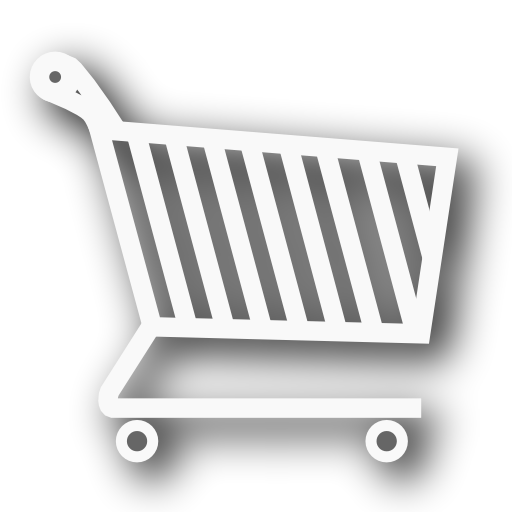
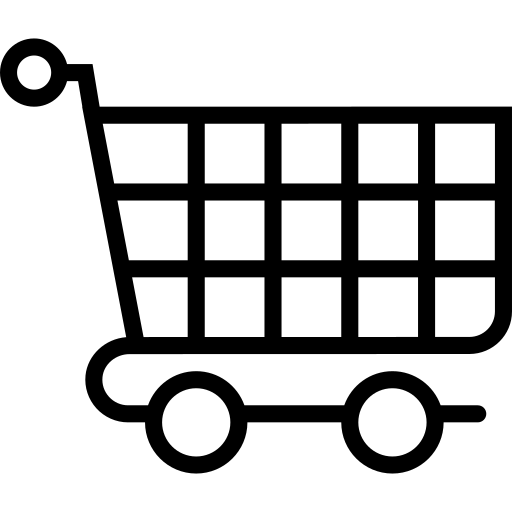
carrito actualizado

diff --git a/js/script.js b/js/script.js
@@ -22,13 +22,16 @@ renderizarmangas(mangas)
 let carrito = document.getElementById("carrito")
 let buscador = document.getElementById("searchByText")
 buscador.addEventListener("input", renderizarMangasFiltradosBuscador)
-
+let contenedorCarritoTotal = document.getElementById("contenedorCarritoTotal")
 let filtroAccion = document.getElementById("Accion")
 let filtroDeportes = document.getElementById("Deportes")
 let filtroSliceOfLife = document.getElementById("Slice of Life")
 let todos = document.getElementById("Todos")
 let inicio = document.getElementById("Inicio")
-
+let cartNav = document.getElementById("cart-nav")
+let botonCarrito = document.getElementById("cart-button")
+let modal = document.getElementById("myModal");
+botonCarrito.addEventListener("click", esconder)
 filtroAccion.addEventListener("click", renderizarmangasFiltrados)
 filtroDeportes.addEventListener("click", renderizarmangasFiltrados)
 filtroSliceOfLife.addEventListener("click", renderizarmangasFiltrados)
@@ -78,11 +81,12 @@ function agregarAlCarrito(e) {
         carro[chequeoManga].precioTotalCantidad = carro[chequeoManga].cantidad * carro[chequeoManga].precio
     }
     else {
-        carro.push({ id: mangaBuscado.id, nombre: mangaBuscado.nombre, categoria: mangaBuscado.categoria, precio: mangaBuscado.precio, marca: mangaBuscado.marca, cantidad: 1, precioTotalCantidad: mangaBuscado.precio })
+        carro.push({ id: mangaBuscado.id, nombre: mangaBuscado.nombre, categoria: mangaBuscado.categoria, precio: mangaBuscado.precio, marca: mangaBuscado.marca, cantidad: 1, precioTotalCantidad: mangaBuscado.precio, img: mangaBuscado.rutaImagen})
     }
     totalFinal = carro.reduce((a, b) => a + b.precioTotalCantidad, 0)
     unidades = carro.reduce((a, b) => a + b.cantidad, 0)
     actualizarCarrito(carro)
+    totalRender(carro)
     console.log(carro)
 }
 
@@ -101,6 +105,7 @@ function eliminarCarrito(e) {
     totalFinal = carro.reduce((a, b) => a + b.precioTotalCantidad, 0)
     unidades = carro.reduce((a, b) => a + b.cantidad, 0)
     actualizarCarrito(carro)
+    totalRender(carro)
     console.log(carro)
 }
 
@@ -108,12 +113,13 @@ function actualizarCarrito(array) {
     carrito.innerHTML = ""
     carrito.style.display = "flex";
     for (let manga of array) {
-        let { nombre, cantidad, precioTotalCantidad, id } = manga
+        let { nombre, cantidad, precioTotalCantidad, id, img} = manga
         let div = document.createElement('div')
-        div.className = "list-group"
+        div.className = "list-group list-group-horizontal"
         div.innerHTML = `
-        <div class = "carrito_edicion">
+        <div class = "carrito list-group-item">
         <div style = "flex:2">${nombre}</div>
+        <div style="flex:2"><img class="imagenCarrito" src="${img}"></div>
         <div style = "flex:2">Precio: ${precioTotalCantidad}$</div>
         <div style = "flex:2">Cantidad: ${cantidad}</div>
         <button id="${id}"class = "restar list-group-item btn btn-outline-success"> - </button>
@@ -130,6 +136,69 @@ function actualizarCarrito(array) {
         for (let b of sumar) {
             b.addEventListener("click", agregarAlCarrito)
         }
+    }
+}
+
+function totalRender(array) {
+    totalFinal = carro.reduce((a, b) => a + b.precioTotalCantidad, 0)
+    unidades = carro.reduce((a, b) => a + b.cantidad, 0)
+    total.innerHTML = ""
+    let totalResumen = document.createElement("div")
+    totalResumen.className = "total"
+    totalResumen.innerHTML = `
+        <span class="close">&times;</span> 
+        <div style = "text-align:center">
+        <h6>Items: <strong>${unidades} </strong></h6>
+        <h6>Total:<strong> $ ${totalFinal.toFixed(2)}</strong></h6>
+        </div>
+        `
+    total.append(totalResumen)
+    let span = document.getElementsByClassName("close")[0];
+    span.onclick = function () {
+        modal.style.display = "none";
+    }
+    cartNav.innerHTML = ""
+    if (array.lenght != 0) {
+        let parrafo = document.createElement("div")
+        parrafo.className = "cart-total"
+        parrafo.innerHTML = `<p>${unidades}</p>`
+        cartNav.append(parrafo)
+    } else {
+        let parrafo = document.createElement("div")
+        parrafo.className = "cart-total"
+        parrafo.innerHTML = `<p>0</p>`
+        cartNav.append(parrafo)
+    }
+}
+function totalRenderVacio(array) {
+    total.innerHTML = ""
+    let totalResumen = document.createElement("div")
+    totalResumen.className = "total"
+    totalResumen.innerHTML = `
+            <span class="close">&times;</span> 
+            <h5 class="totalh5">Items: <strong>  0 </strong></h5>
+            <h5 class="totalh5">Total:<strong> $ 0.00 </strong></h5>
+            `
+    total.append(totalResumen)
+    cartNav.innerHTML = ""
+    let parrafo = document.createElement("div")
+    parrafo.className = "cart-total"
+    parrafo.innerHTML = `<p>0</p>`
+    cartNav.append(parrafo)
+
+    let span = document.getElementsByClassName("close")[0];
+    span.onclick = function () {
+        modal.style.display = "none";
+    }
+
+}
+
+function esconder(e) {
+    modal.style.display = "block";
+}
+window.onclick = function (event) {
+    if (event.target == modal) {
+        modal.style.display = "none";
     }
 }
 

diff --git a/index.html b/index.html
@@ -19,7 +19,7 @@
 
 <body>
   <header>
-    <div class="container">
+    <div class="container colorFondo">
       <nav class="navbar navbar-expand-lg bg-body-tertiary">
         <div class="container-fluid">
           <a class="navbar-brand" href="#">ONCE COMICS</a>
@@ -49,28 +49,51 @@
             <form class="d-flex" role="search">
               <input id="searchByText" class="form-control me-2" type="text" placeholder="Buscar" aria-label="Search">
             </form>
+            <div id="icono-carro" class="form-inline my-2 my-lg-0">
+              <a id="cart-button">
+                <img id="cart-icon" src="img/cart.png">
+              </a>
+            </div>
+            <div id="cart-nav">
+              <div class="cart-total">
+                <p></p>
+              </div>
+            </div>
           </div>
         </div>
       </nav>
+      <div id="myModal" class="modal">
+        <div id="contenedorCarritoTotal" class="modal-content">
+          <div class="row">
+            <div class="col-lg-12">
+              <div class="box-element-2">
+                <table class="table">
+                  <div id="total"></div>
+                </table>
+              </div>
+              <div id="carrito"></div>
+            </div>
+          </div>
+        </div>
+      </div>
+    </div>
     </div>
   </header>
   <div class="container-fluid">
     <div class="row">
-      <img class="img-fluid img-rounded imagen" src="img/1653045471_530623_1653046155_noticia_normal.jpg" alt="Responsive image">
-      <div class = "divBanner container-fluid">
+      <img class="img-fluid img-rounded imagen" src="img/1653045471_530623_1653046155_noticia_normal.jpg"
+        alt="Responsive image">
+      <div class="divBanner container-fluid">
         <h1>ONCE COMICS</h1>
+        <h2>Encontrá acá los mejores Mangas, Historietas, Merchandising y mucho más</h2>
+        <h4>Once Comics, Avenida Belgrano 3001, Tel:1150579015</h4>
+        <h5>oncecomics.tienda@gmail.com</h5>
       </div>
     </div>
   </div>
   <div class="container">
     <div class="row">
       <div id="contenedor">
-      </div>
-    </div>
-  </div>
-  <div class="container">
-    <div class="row">
-      <div id="carrito">
       </div>
     </div>
   </div>

diff --git a/css/style.css b/css/style.css
@@ -40,6 +40,10 @@ body{
   cursor: pointer;
 }
 
+.close {
+  cursor: pointer;
+}
+
 .carrito_edicion {
 	display: flex;
 	flex-direction:column;
@@ -66,15 +70,97 @@ body{
 
 h1{
   position: absolute;
-  color:white;
+  color:honeydew;
   font-size: 100px;
   font-family: fantasy;
   padding-top: 50px;
 }
 
+h2{
+  position: absolute;
+  color:honeydew;
+  font-size: 50px;
+  font-family: fantasy;
+  padding-top: 200px;
+  margin: 30px;
+}
+
+h4{
+  position: absolute;
+  color:honeydew;
+  font-size: 40px;
+  font-family: fantasy;
+  padding-top: 350px;
+}
+
+h5{
+  position: absolute;
+  color:honeydew;
+  font-size: 30px;
+  font-family: fantasy;
+  padding-top: 400px;
+}
+
+.colorFondo{
+  background-color: white;
+  margin-top: 10px;
+  margin-bottom: 10px;
+}
+
+#cart-icon {
+	width: 25px;
+	display: inline-block;
+	margin-left: 15px;
+	margin-right: 3px;
+	transition: all 0.3s;
+}
+
+#cart-icon:hover {
+	transform: scale(1.3);
+}
+
+.tabla {
+  font-size: 15px;
+}
+
+.carrito{
+  display:grid;
+  text-align: center;
+  justify-content: center;
+  align-items: center;
+  margin:10px;
+  padding:10px;
+}
+
+.imagenCarrito {
+	width: 100px;
+}
+
+.cart-total {
+	display: block;
+	text-align: center;
+	color: black;
+	width: 20px;
+	height: 25px;
+	border-radius: 50%;
+	font-size: 14px;
+}
+
 @media (min-width: 300px) and (max-width: 770px) {
   h1{
     font-size: 50px;
+  }
+  h2{
+    font-size: 20px;
+    padding-top: 100px;
+  }
+  h4{
+    font-size: 15px;
+    padding-top: 210px;
+  }
+  h5{
+    font-size: 10px;
+    padding-top: 250px;
   }
   .imagen{
     height:300px;
@@ -83,6 +169,15 @@ h1{
 @media (min-width: 100px) and (max-width: 290px) {
   h1{
     font-size: 20px;
+  }
+  h2{
+    font-size: 10px;
+  }
+  h4{
+    font-size: 8px;
+  }
+  h5{
+    font-size: 5px;
   }
   .imagen{
     height:200px;
